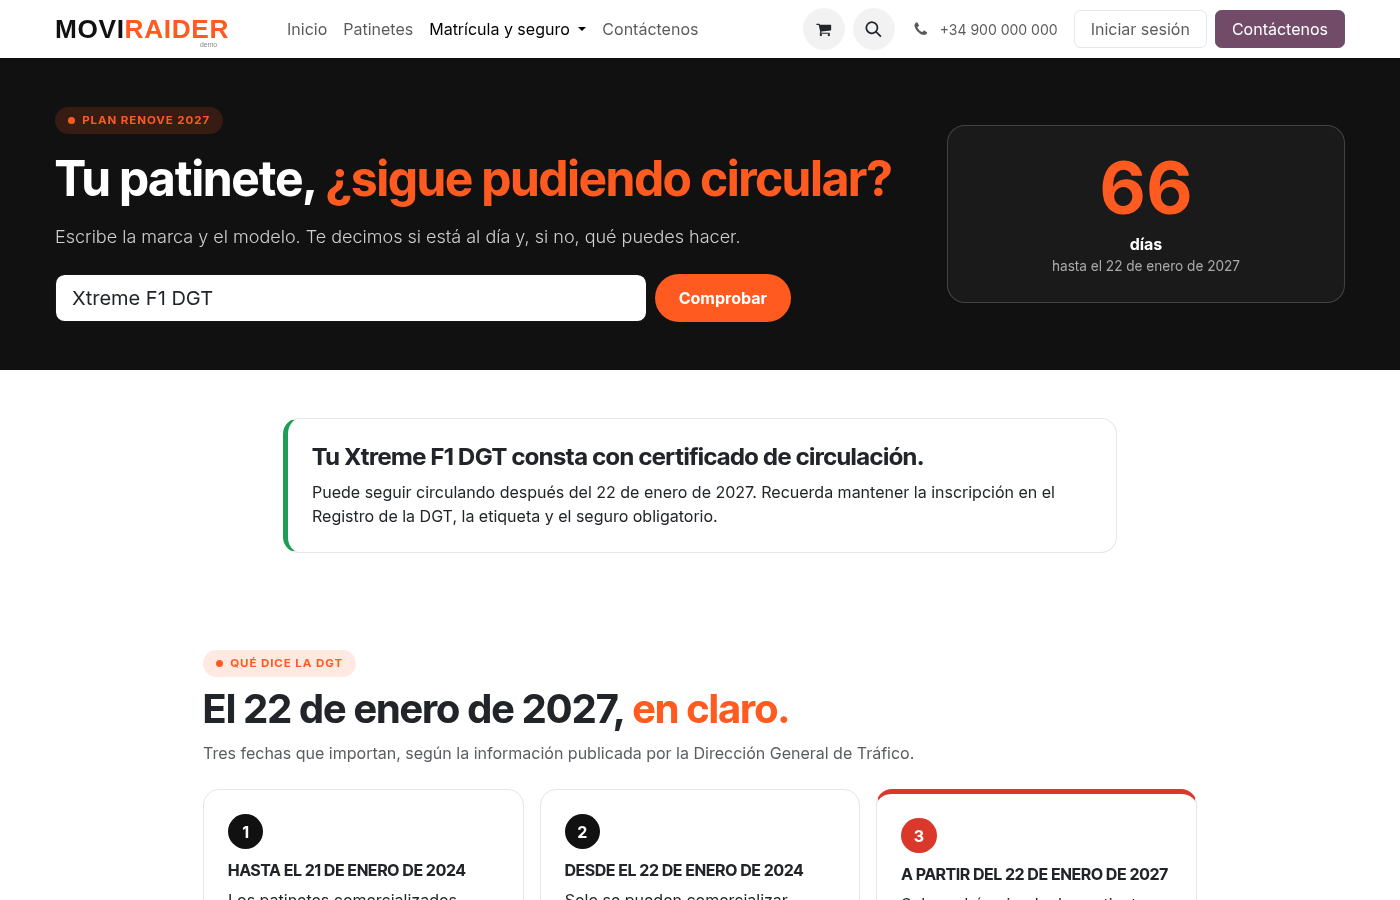
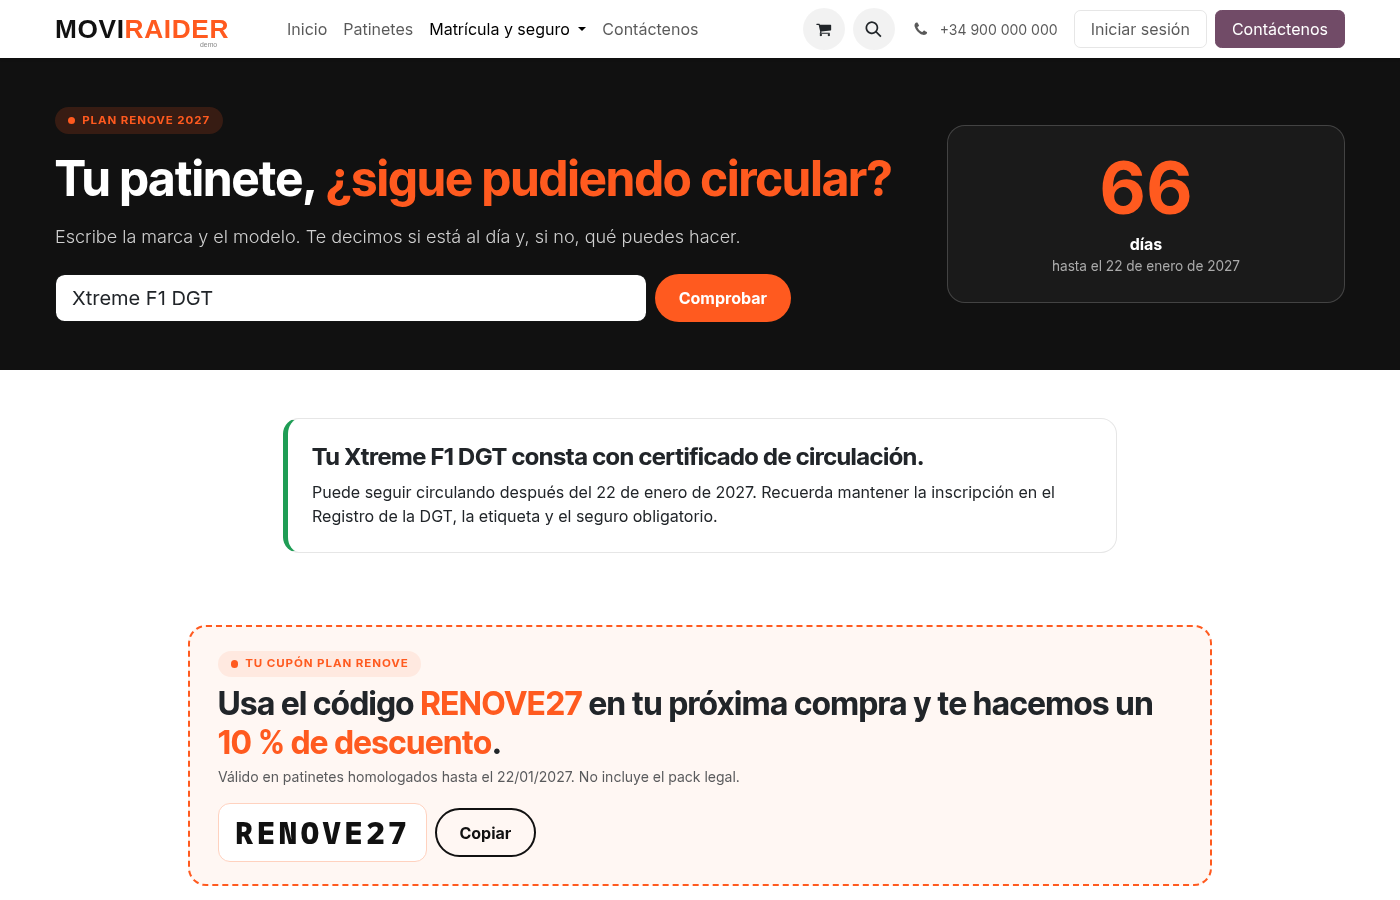
feat(renove): cupón destacado y origen DGT explícito en el mensaje
- cupón visible (con botón Copiar) en la landing y la portada: 'Usa el código RENOVE27 en
  tu próxima compra y te hacemos un 10 % de descuento'; mismo texto en el correo
- el hero de portada y de landing y la barra superior dejan claro que es normativa de la
  DGT ('Según la DGT, desde el 22 de enero de 2027 solo podrán circular los patinetes con
  certificado'), para que no parezca una promoción inventada
- aviso: el cupón no incluye el pack legal

Changed region(s): [[0.1229, 0.7156, 0.8293, 1.0], [0.6143, 0.8711, 0.86, 0.9956]]

diff --git a/addons/moviraider_renove/tests/test_landing.py b/addons/moviraider_renove/tests/test_landing.py
@@ -88,12 +88,31 @@ class TestLanding(HttpCase):
     def test_homepage_shows_renove_hero(self):
         self.assertIn("Plan Renove", self.url_open("/").text)
 
+    def test_coupon_wording_on_landing_and_homepage(self):
+        self.env["renove.campaign"].search([("id", "!=", self.campaign.id), ("state", "=", "running")]).write({"state": "done"})
+        self.campaign.discount_code = "CUPONTEST"
+        self.campaign._sync_loyalty_program()
+        for url in ("/renove", "/"):
+            text = self.url_open(url).text
+            self.assertIn("CUPONTEST", text, url)
+            self.assertIn("en tu próxima compra", text, url)
+            self.assertIn("10 % de descuento", text, url)
+            self.assertIn("No incluye el pack legal", text, url)
+
     def test_january_22_clarification_matches_dgt_and_cites_source(self):
         text = self.url_open("/renove").text
         self.assertIn("21 de enero de 2024", text)   # fin de la comercialización sin certificado
         self.assertIn("22 de enero de 2027", text)   # fin del periodo transitorio
         self.assertIn("Vehículo no certificado", text)
         self.assertIn("dgt.es/nuestros-servicios/tu-vehiculo/vehiculos-de-movilidad-personal-vmp", text)
+
+    def test_dgt_origin_is_explicit_everywhere_it_matters(self):
+        """El mensaje debe dejar claro que es una norma de la DGT, no una promoción."""
+        self.assertIn("NORMATIVA DGT", self.url_open("/shop").text)          # barra superior
+        for url in ("/", "/renove"):
+            text = self.url_open(url).text
+            self.assertIn("Según la DGT", text, url)
+            self.assertIn("solo podrán circular", text, url)
 
     def test_announcement_bar_on_other_pages_but_not_on_landing(self):
         self.assertIn("rn-bar", self.url_open("/shop").text)

diff --git a/addons/moviraider_renove/models/campaign.py b/addons/moviraider_renove/models/campaign.py
@@ -241,7 +241,8 @@ class RenoveCampaign(models.Model):
         return (
             "<p>Hola {{ object.name }},</p>"
             "<p>%s</p>"
-            "<p>Quedan <strong>%s días</strong>. Usa el código <strong>%s</strong> y llévate un <strong>%g %%</strong> en tu patinete.</p>"
+            "<p>Quedan <strong>%s días</strong>. Usa el código <strong>%s</strong> en tu próxima compra "
+            "y te hacemos un <strong>%g %% de descuento</strong>.</p>"
             '<p><a href="%s">Ver patinetes homologados</a></p>'
         ) % (self.offer_text, self.days_left, self.discount_code or "", self.discount_percent, shop)
 

diff --git a/addons/moviraider_renove/controllers/main.py b/addons/moviraider_renove/controllers/main.py
@@ -61,6 +61,7 @@ class RenoveWeb(http.Controller):
             "days_left": self._days_left(campaign),
             "discount_code": campaign.discount_code if campaign else "",
             "discount_percent": campaign.discount_percent if campaign and campaign.loyalty_program_id else 0,
+            "deadline_text": campaign.deadline.strftime("%d/%m/%Y") if campaign else FALLBACK_DEADLINE.strftime("%d/%m/%Y"),
             "shop_url": shop_url,
             "stores": STORES,
             "error": None,

diff --git a/addons/moviraider_renove/tests/test_discount.py b/addons/moviraider_renove/tests/test_discount.py
@@ -116,7 +116,8 @@ class TestDiscount(TransactionCase):
         camp.action_prepare_mailing()
         self.assertTrue(camp.loyalty_program_id)
         self.assertIn("MAILDTO", camp.mailing_id.body_html)
-        self.assertIn("10 %", camp.mailing_id.body_html)
+        self.assertIn("en tu próxima compra", camp.mailing_id.body_html)
+        self.assertIn("10 % de descuento", camp.mailing_id.body_html)
 
 
 @tagged("post_install", "-at_install", "moviraider_renove")
